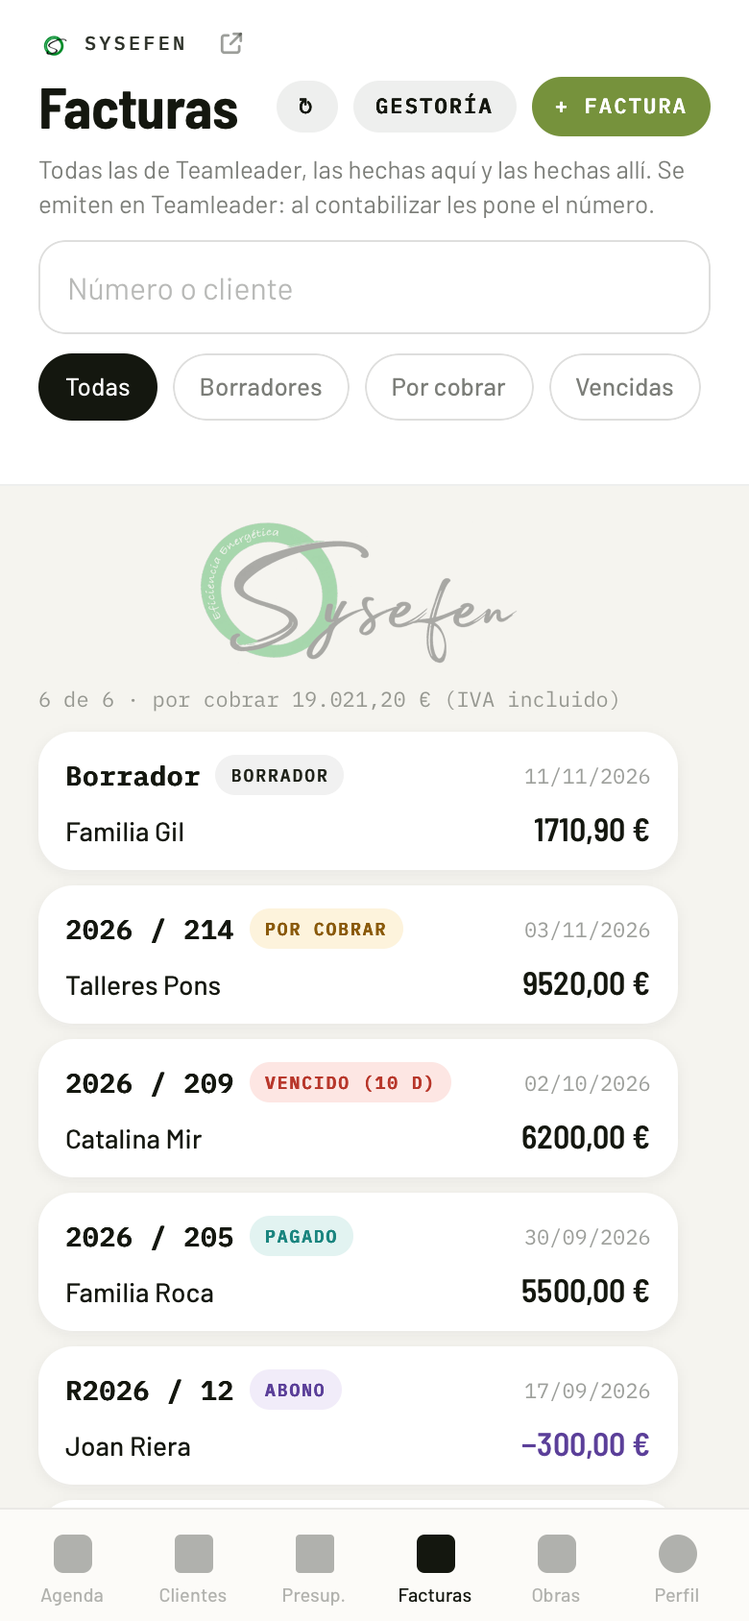
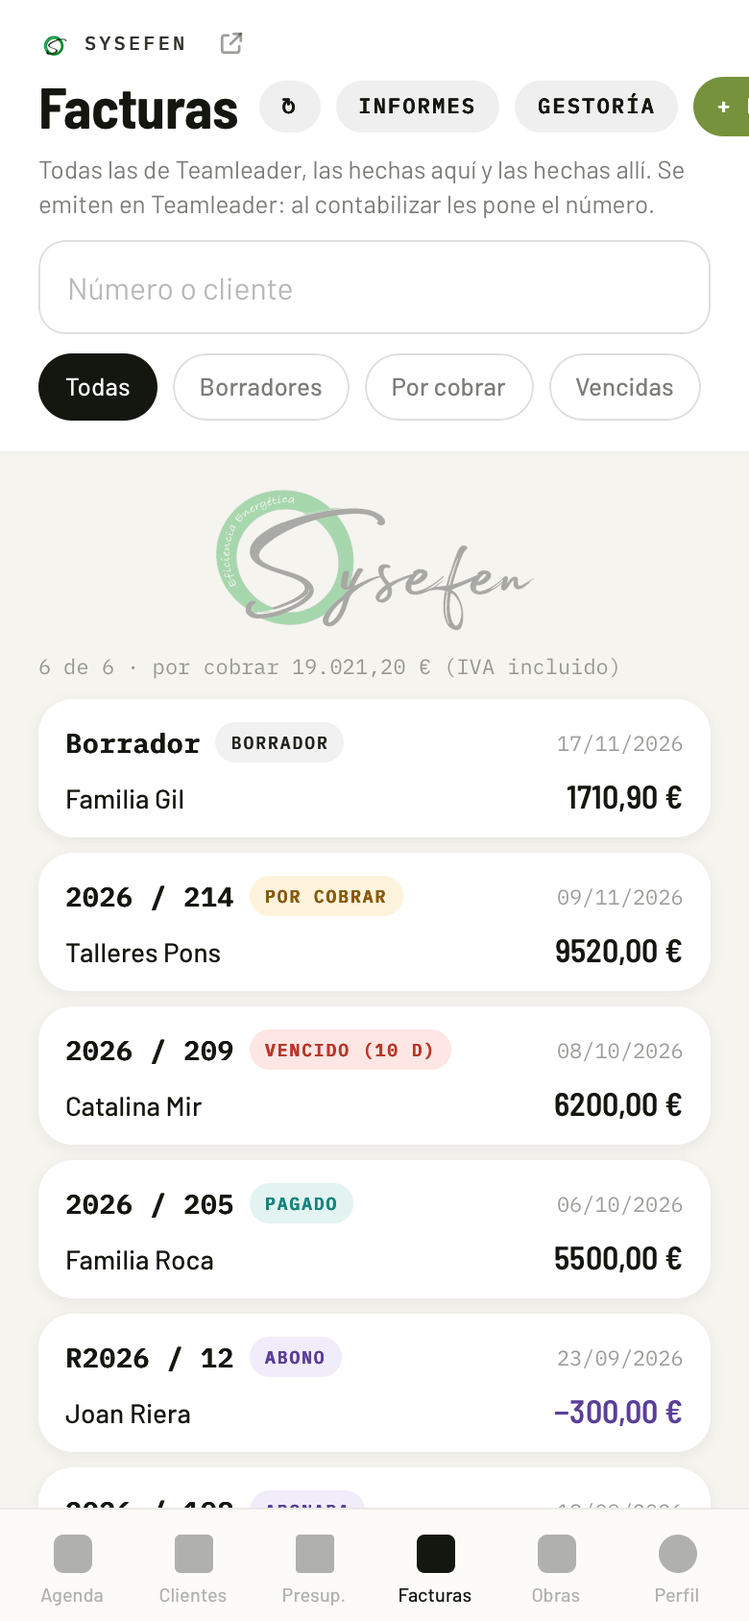
V32.6 (Enzo, 17-11-2026): informes de lo facturado por meses. «En Teamleader tengo una sección de informes donde se pueden ver las gráficas y tablas de los ingresos por meses.» Vista nueva «Informes», desde la lista de facturas (presupuestos y Administración). Sale del espejo de facturas que la app 

diff --git a/index.html b/index.html
@@ -515,7 +515,7 @@ import * as idiomas from './presu-idiomas.js';
 window.Sysefen = { supabase, auth: sysAuth, db: sysDB };
 
 const KEY = 'ch_v1';
-const APP_VERSION = '32.5'; // versión visible de la app (única fuente)
+const APP_VERSION = '32.6'; // versión visible de la app (única fuente)
 const $ = (s) => document.querySelector(s);
 const esc = (v) => String(v == null ? '' : v).replace(/[&<>"']/g, (c) => ({ '&': '&amp;', '<': '&lt;', '>': '&gt;', '"': '&quot;', "'": '&#39;' }[c]));
 const uid = () => Date.now().toString(36) + Math.random().toString(36).slice(2, 7);
@@ -4495,7 +4495,7 @@ function render() {
   // Legalizaciones apagadas: quien llegue a esas vistas (un enlace viejo) vuelve a su sitio.
   if (!LEGALIZACIONES && ['legalizaciones', 'legalizacion'].includes(V.view)) V.view = esPresupuestos() ? 'agenda' : 'ajustes';
   // Ramón entra directo a sus visitas: ninguna pantalla de fichar, obras ni partes.
-  if (V.user && esPresupuestos() && !VISITA_VISTAS.includes(V.view) && !(!esColaborador() && ['legalizaciones', 'legalizacion', 'obras', 'obra', 'alta', 'costesPersonal', 'precios', 'facturas', 'planificacion'].includes(V.view))) {
+  if (V.user && esPresupuestos() && !VISITA_VISTAS.includes(V.view) && !(!esColaborador() && ['legalizaciones', 'legalizacion', 'obras', 'obra', 'alta', 'costesPersonal', 'precios', 'facturas', 'informes', 'planificacion'].includes(V.view))) {
     V.view = 'agenda';
     if (!V.agenda.cargado) A.cargarAgenda();
   }
@@ -4526,6 +4526,7 @@ function render() {
   else if (v === 'costesPersonal' && veCostes()) html = vCostesPersonal();
   else if (v === 'precios' && puedePrecios()) html = vPrecios();
   else if (v === 'facturas' && puedeFacturar()) html = vFacturas();
+  else if (v === 'informes' && puedeFacturar()) html = vInformes();
   else if (v === 'fasesPlantillas' && esAdmin()) html = vFasesPlantillas();
   else if (v === 'planificacion' && planifica()) html = vPlanificacion();
   else if (v === 'legalizacion' && verLegalizaciones()) html = vLegalizacion();
@@ -4545,6 +4546,7 @@ function render() {
   else if (v === 'citaNueva' && puedeCitar()) html = vCitaNueva();
   else if (v === 'citaVer' && verAgenda()) html = vCitaVer();
   if (V.user && ['hoy', 'obras', 'obra', 'partes', 'horas', 'imputar', 'empleados', 'ajustes', 'presupuestos', 'presupuestoVer', 'visitas', 'visita', 'agenda', 'clientes', 'clienteVer', 'revisarImp', 'errores', 'legalizaciones', 'legalizacion', 'costesPersonal', 'precios', 'facturas', 'planificacion', 'fasesPlantillas'].includes(v)) html += nav(v);
+  else if (V.user && v === 'informes') html += nav('facturas');
   if (!navigator.onLine && V.user) html = '<div class="offline">Sin conexión — todo se guarda en el móvil</div>' + html;
   // Red de seguridad: si un sheet revienta al pintarse (p. ej. depende de
   // datos que cambiaron justo antes, como el usuario tras salir), que se
@@ -9143,6 +9145,7 @@ function vFacturas() {
       <div class="h1">Facturas</div>
       <div class="row g8">
         <button class="pill" data-a="fac_sync" style="padding:8px 12px;background:var(--l1);color:var(--tinta)" ${F.sync && F.sync.busy ? 'disabled' : ''} title="Traer de Teamleader las facturas nuevas o cambiadas">${F.sync && F.sync.busy ? '…' : '↻'}</button>
+        <button class="pill" data-a="fac_inf" style="padding:8px 12px;background:var(--l1);color:var(--tinta)" title="Lo facturado por meses y por años, con gráficas">Informes</button>
         <button class="pill" data-a="fac_gestoria" style="padding:8px 12px;background:var(--l1);color:var(--tinta)" title="Listado en Excel y los PDF de un mes o un trimestre, para la gestoría">Gestoría</button>
         <button class="pill" data-a="fac_nueva" style="background:#76923c;color:#fff">+ Factura</button>
       </div>
@@ -9158,7 +9161,182 @@ async function facCargarLista() {
   F.cargando = true;
   try { F.lista = await visitasDB.listarFacturas(); F.error = null; } catch (e) { F.error = msgError(e); }
   F.cargando = false;
-  if (V.view === 'facturas') render();
+  if (V.view === 'facturas' || V.view === 'informes') render();
+}
+
+/* ---------- Informes: lo facturado por meses (V32.6, 17-11-2026) ----------
+ * Enzo: «en Teamleader tengo una sección de informes donde se pueden ver las
+ * gráficas y tablas de los ingresos por meses». Sale del espejo de facturas
+ * (tabla facturas), sin pedir nada más a Teamleader.
+ * Qué cuenta: las facturas emitidas (un borrador no), por su fecha de factura;
+ * los abonos restan. Es lo FACTURADO, no lo cobrado: lo que falta por cobrar
+ * va aparte. Por defecto sin IVA.
+ * ------------------------------------------------------------------------- */
+const INF_MESES = ['Ene', 'Feb', 'Mar', 'Abr', 'May', 'Jun', 'Jul', 'Ago', 'Sep', 'Oct', 'Nov', 'Dic'];
+const INF_MESES_LARGO = ['Enero', 'Febrero', 'Marzo', 'Abril', 'Mayo', 'Junio', 'Julio', 'Agosto', 'Septiembre', 'Octubre', 'Noviembre', 'Diciembre'];
+// Año elegido y año anterior: pareja comprobada para daltonismo sobre blanco.
+const INF_COLOR = { este: '#206028', antes: '#4f7fc4' };
+function infEstado() { if (!V.inf) V.inf = { anio: null, entidad: '', medida: 'base', mes: null }; return V.inf; }
+const infEntidadDe = (f) => f.entidad_tl_id || f.entidad || '';
+/** Las que cuentan: con fecha y emitidas; de una empresa o de todas. */
+function infFilas(lista, entidad) {
+  return (lista || []).filter((f) => f.fecha && f.estado !== 'borrador' && (!entidad || infEntidadDe(f) === entidad));
+}
+/** Lo que suma una fila en la medida pedida (base, iva o total): el abono resta. */
+function infValor(f, medida) {
+  const v = Number(f[medida || 'base']) || 0;
+  return f.tipo === 'abono' ? -Math.abs(v) : v;
+}
+/** Los doce meses de un año. `hasta` (AAAA-MM-DD) corta el año para comparar el mismo tramo. */
+function infPorMes(filas, anio, medida, hasta) {
+  const m = INF_MESES.map(() => ({ valor: 0, facturas: 0, abonos: 0 }));
+  filas.forEach((f) => {
+    const fe = String(f.fecha);
+    if (fe.slice(0, 4) !== String(anio) || (hasta && fe.slice(0, 10) > hasta)) return;
+    const x = m[Number(fe.slice(5, 7)) - 1]; if (!x) return;
+    if (f.tipo === 'abono') x.abonos++; else x.facturas++;
+    x.valor = fac2(x.valor + infValor(f, medida));
+  });
+  return m;
+}
+const infSuma = (meses) => fac2(meses.reduce((t, x) => t + x.valor, 0));
+const infAnios = (filas) => [...new Set(filas.map((f) => Number(String(f.fecha).slice(0, 4))))].filter(Boolean).sort((a, b) => b - a);
+/** Diferencia en tanto por ciento, o null si no hay con qué comparar. */
+const infDif = (a, b) => (b ? Math.round(((a - b) / Math.abs(b)) * 1000) / 10 : null);
+const infDifTxt = (d) => (d == null ? '—' : (d > 0 ? '+' : '') + String(d).replace('.', ',') + ' %');
+/** Importe corto para ejes y rótulos: 77.391 €, 1,51 M €. */
+const eur0 = (n) => Math.round(Number(n) || 0).toLocaleString('es-ES') + ' €';
+const infCorto = (n) => { const a = Math.abs(n); return a >= 1e6 ? (n / 1e6).toLocaleString('es-ES', { maximumFractionDigits: 2 }) + ' M' : a >= 10000 ? (n / 1000).toLocaleString('es-ES', { maximumFractionDigits: 1 }) + ' k' : Math.round(n).toLocaleString('es-ES'); };
+/** Tope del eje: cuatro saltos iguales de un paso redondo, los justos para cubrir el máximo. */
+function infTope(max) {
+  if (!(max > 0)) return 1000;
+  const crudo = max / 4, p = Math.pow(10, Math.floor(Math.log10(crudo)));
+  const paso = [1, 1.5, 2, 2.5, 3, 4, 5, 7.5, 10].map((k) => k * p).find((t) => t >= crudo - 1e-9) || 10 * p;
+  return paso * 4;
+}
+/** Todo lo que pinta la pantalla, calculado de una vez (y lo que comprueban las pruebas). */
+function infDatos(lista, anio, entidad, medida, hoy) {
+  const filas = infFilas(lista, entidad);
+  const anios = infAnios(filas);
+  const hoyISO_ = hoy || hoyISO();
+  const A = anio && anios.includes(Number(anio)) ? Number(anio) : (anios[0] || Number(hoyISO_.slice(0, 4)));
+  const enCurso = String(A) === hoyISO_.slice(0, 4);
+  const este = infPorMes(filas, A, medida), antes = infPorMes(filas, A - 1, medida);
+  // Para comparar un año en curso, del anterior solo cuenta hasta el mismo día.
+  const antesTramo = enCurso ? infPorMes(filas, A - 1, medida, (A - 1) + hoyISO_.slice(4)) : antes;
+  const total = infSuma(este), totalAntes = infSuma(antes), totalAntesTramo = infSuma(antesTramo);
+  const mesesContados = enCurso ? Number(hoyISO_.slice(5, 7)) : 12;
+  let mejor = -1; este.forEach((x, i) => { if (x.valor > 0 && (mejor < 0 || x.valor > este[mejor].valor)) mejor = i; });
+  // Por cobrar: facturas emitidas sin pagar, de cualquier año. Siempre con IVA: es lo que se cobra.
+  const sinCobrar = filas.filter((f) => f.tipo === 'factura' && !(f.estado === 'pagada' || f.pagada));
+  const pend = (f) => (f.pendiente != null ? Number(f.pendiente) : Number(f.total)) || 0;
+  const porCobrar = fac2(sinCobrar.reduce((t, f) => t + pend(f), 0));
+  const vencidas = sinCobrar.filter((f) => f.vence && f.vence < hoyISO_);
+  // Los clientes del año, de más a menos.
+  const cli = {};
+  filas.forEach((f) => { if (String(f.fecha).slice(0, 4) !== String(A)) return; const k = f.cliente_nombre || 'Sin nombre'; cli[k] = fac2((cli[k] || 0) + infValor(f, medida)); });
+  const clientes = Object.keys(cli).map((k) => ({ nombre: k, valor: cli[k] })).filter((x) => x.valor > 0).sort((a, b) => b.valor - a.valor);
+  const porAnio = anios.slice().sort((a, b) => a - b).map((y) => ({ anio: y, valor: infSuma(infPorMes(filas, y, medida)) }));
+  return { anio: A, anios, enCurso, este, antes, total, totalAntes, totalAntesTramo, dif: infDif(total, totalAntesTramo), mesesContados,
+    media: fac2(total / (mesesContados || 1)), mejor, porCobrar, nSinCobrar: sinCobrar.length,
+    vencido: fac2(vencidas.reduce((t, f) => t + pend(f), 0)), nVencidas: vencidas.length, clientes, porAnio,
+    nFacturas: este.reduce((t, x) => t + x.facturas, 0), nAbonos: este.reduce((t, x) => t + x.abonos, 0) };
+}
+/** Columnas agrupadas: el año elegido y el anterior, mes a mes. Se toca un mes para leerlo. */
+function infGraficaHTML(D, mesSel) {
+  // En el móvil, un lienzo más pequeño: así la letra del eje no encoge con la gráfica.
+  const movil = (typeof innerWidth === 'number' ? innerWidth : 400) < 640;
+  const W = movil ? 380 : 720, H = movil ? 250 : 300, izq = movil ? 40 : 50, der = movil ? 2 : 8, arr = 12, aba = 28, letra = movil ? 11 : 12;
+  const ancho = W - izq - der, alto = H - arr - aba, paso = ancho / 12;
+  const tope = infTope(Math.max(1, ...D.este.map((x) => x.valor), ...D.antes.map((x) => x.valor)));
+  const y = (v) => arr + alto - (Math.max(0, v) / tope) * alto;
+  const bw = movil ? 9 : 14, hueco = 2;
+  // Columna con la punta redondeada y la base recta.
+  const col = (x, v, color) => { const h = arr + alto - y(v); if (h < 0.5) return ''; const r = Math.min(4, h, bw / 2); const yy = y(v);
+    return `<path d="M${x},${arr + alto}V${yy + r}Q${x},${yy} ${x + r},${yy}H${x + bw - r}Q${x + bw},${yy} ${x + bw},${yy + r}V${arr + alto}Z" fill="${color}"/>`; };
+  const marcas = [0, 0.25, 0.5, 0.75, 1].map((k) => k * tope);
+  return `<svg viewBox="0 0 ${W} ${H}" role="img" aria-label="Facturado por meses en ${D.anio}, comparado con ${D.anio - 1}" style="display:block;width:100%;height:auto;font-family:var(--mono)">
+    ${marcas.map((v) => `<line x1="${izq}" x2="${W - der}" y1="${y(v)}" y2="${y(v)}" stroke="rgba(20,23,15,.08)" stroke-width="1"/><text x="${izq - 7}" y="${y(v) + 4}" text-anchor="end" font-size="${letra}" fill="rgba(20,23,15,.5)">${infCorto(v)}</text>`).join('')}
+    ${D.este.map((x, i) => { const cx = izq + paso * i + paso / 2; const sel = mesSel === i;
+      return `<g data-a="fac_infMes" data-m="${i}" style="cursor:pointer"><title>${INF_MESES_LARGO[i]} · ${D.anio}: ${eur0(x.valor)} · ${D.anio - 1}: ${eur0(D.antes[i].valor)}</title>
+        <rect x="${izq + paso * i}" y="${arr}" width="${paso}" height="${alto + aba}" fill="${sel ? 'rgba(20,23,15,.05)' : 'transparent'}"/>
+        ${col(cx - bw - hueco / 2, D.antes[i].valor, INF_COLOR.antes)}${col(cx + hueco / 2, x.valor, INF_COLOR.este)}
+        <text x="${cx}" y="${H - 9}" text-anchor="middle" font-size="${letra}" font-weight="${sel ? 700 : 400}" fill="${sel ? '#14170f' : 'rgba(20,23,15,.56)'}">${INF_MESES[i]}</text></g>`; }).join('')}
+    <line x1="${izq}" x2="${W - der}" y1="${arr + alto}" y2="${arr + alto}" stroke="rgba(20,23,15,.3)" stroke-width="1"/>
+  </svg>`;
+}
+const infLeyenda = (D) => `<div class="row" style="gap:16px;flex-wrap:wrap"><span class="row g8" style="align-items:center"><i style="width:12px;height:12px;border-radius:3px;background:${INF_COLOR.este}"></i><span class="tiny" style="color:var(--tinta)">${D.anio}</span></span><span class="row g8" style="align-items:center"><i style="width:12px;height:12px;border-radius:3px;background:${INF_COLOR.antes}"></i><span class="tiny" style="color:var(--tinta)">${D.anio - 1}</span></span></div>`;
+/** Barras tumbadas con el importe en la punta (por años, por cliente). */
+function infBarrasHTML(filas, accion) {
+  const max = Math.max(1, ...filas.map((x) => x.valor));
+  return filas.map((x) => `<div ${accion ? `data-a="${accion}" data-y="${esc(String(x.clave))}" style="cursor:pointer;` : 'style="'}padding:7px 0">
+    <div class="row" style="justify-content:space-between;align-items:baseline;gap:10px"><span class="ell" style="font:${x.on ? 600 : 500} 13.5px/1.2 var(--sans);min-width:0">${esc(x.nombre)}</span><span class="num" style="font-size:14px;white-space:nowrap">${eur0(x.valor)}</span></div>
+    <div style="height:8px;margin-top:5px;border-radius:0 4px 4px 0;background:${INF_COLOR.este};opacity:${x.on === false ? 0.45 : 1};width:${Math.max(0.5, (Math.max(0, x.valor) / max) * 100).toFixed(1)}%"></div>
+  </div>`).join('');
+}
+function vInformes() {
+  const F = facEstadoBase(), I = infEstado();
+  const cab = (dentro) => `<div class="hdr">
+    <div class="volver" data-a="fac_abrir">‹ Facturas</div>
+    <div class="h1" style="margin-top:6px">Informes</div>
+    ${dentro}
+  </div>`;
+  if (!F.lista) return cab(`<div class="sub" style="margin-top:8px">${F.error ? 'No se pudieron leer las facturas: ' + esc(F.error) : 'Cargando las facturas…'}</div>`) + '<div class="scroll pad pb-nav"></div>';
+  // Las empresas que han facturado, la que más primero.
+  const emp = {}; (F.lista || []).forEach((f) => { const k = infEntidadDe(f); if (!k) return; (emp[k] = emp[k] || { k, nombre: f.entidad || k, n: 0 }).n++; });
+  const empresas = Object.values(emp).sort((a, b) => b.n - a.n);
+  if (I.entidad && !emp[I.entidad]) I.entidad = '';
+  const D = infDatos(F.lista, I.anio, I.entidad, I.medida);
+  I.anio = D.anio;
+  const conIva = I.medida === 'total';
+  const m = I.mes != null && D.este[I.mes] ? I.mes : null;
+  const corto = (t) => (String(t).length > 24 ? String(t).slice(0, 23) + '…' : String(t));
+  const tile = (rotulo, valor, pie, color) => `<div class="card" style="flex:1 1 150px;min-width:0;padding:13px 15px"><div class="lbl">${rotulo}</div><div class="num" style="font-size:24px;line-height:1.1;margin-top:7px;white-space:nowrap">${valor}</div><div class="tiny" style="margin-top:5px${color ? ';color:' + color : ''}">${pie}</div></div>`;
+  const hayAntes = D.anios.includes(D.anio - 1);
+  const lectura = m == null
+    ? `<span class="tiny">Toca un mes para ver sus números.</span>`
+    : `<span style="font:600 14px/1.3 var(--sans)">${INF_MESES_LARGO[m]}</span> <span class="tiny">· ${D.anio}: <b style="color:var(--tinta)">${eur(D.este[m].valor)}</b> (${D.este[m].facturas} ${D.este[m].facturas === 1 ? 'factura' : 'facturas'}${D.este[m].abonos ? ', ' + D.este[m].abonos + (D.este[m].abonos === 1 ? ' abono' : ' abonos') : ''}) · ${D.anio - 1}: <b style="color:var(--tinta)">${eur(D.antes[m].valor)}</b> · ${infDifTxt(infDif(D.este[m].valor, D.antes[m].valor))}</span>`;
+  let acum = 0, acumAntes = 0;
+  return cab(`<div class="sub" style="margin-top:8px">Lo facturado, por la fecha de la factura. Los abonos restan y los borradores no cuentan. No es lo cobrado: eso va en «Por cobrar».</div>
+    <div class="row g8" style="margin-top:10px;overflow-x:auto;padding-bottom:2px">${D.anios.map((y) => `<span class="chip${y === D.anio ? ' on' : ''}" data-a="fac_infAnio" data-y="${y}" style="flex:none">${y}</span>`).join('')}</div>
+    <div class="row g8" style="margin-top:8px;overflow-x:auto;padding-bottom:2px">
+      ${empresas.length > 1 ? `<span class="chip${!I.entidad ? ' on' : ''}" data-a="fac_infEntidad" data-k="" style="flex:none">Todas las empresas</span>${empresas.map((e) => `<span class="chip${I.entidad === e.k ? ' on' : ''}" data-a="fac_infEntidad" data-k="${esc(e.k)}" style="flex:none" title="${esc(e.nombre)}">${esc(corto(e.nombre))}</span>`).join('')}` : ''}
+      <span class="chip${!conIva ? ' on' : ''}" data-a="fac_infMedida" data-k="base" style="flex:none">Sin IVA</span><span class="chip${conIva ? ' on' : ''}" data-a="fac_infMedida" data-k="total" style="flex:none">Con IVA</span>
+    </div>`) + `
+  <div class="scroll pad sin-marca pb-nav"><div style="max-width:860px;margin:0 auto">
+    <div class="row" style="gap:10px;flex-wrap:wrap;align-items:stretch">
+      ${tile('Facturado en ' + D.anio, eur0(D.total), (conIva ? 'Con IVA' : 'Sin IVA') + ' · ' + D.nFacturas + (D.nFacturas === 1 ? ' factura' : ' facturas') + (D.nAbonos ? ' y ' + D.nAbonos + (D.nAbonos === 1 ? ' abono' : ' abonos') : ''))}
+      ${tile(D.enCurso ? 'Frente a ' + (D.anio - 1) + ', mismas fechas' : 'Frente a ' + (D.anio - 1), hayAntes ? infDifTxt(D.dif) : '—', hayAntes ? (D.enCurso ? 'A estas fechas llevaba ' : 'Fue ') + eur0(D.totalAntesTramo) : 'No hay facturas de ' + (D.anio - 1))}
+      ${tile('Media por mes', eur0(D.media), D.mejor >= 0 ? 'El mejor, ' + INF_MESES_LARGO[D.mejor].toLowerCase() + ': ' + eur0(D.este[D.mejor].valor) : 'Sin facturas este año')}
+      ${tile('Por cobrar ahora', eur0(D.porCobrar), D.nSinCobrar ? D.nSinCobrar + (D.nSinCobrar === 1 ? ' factura' : ' facturas') + ', con IVA' + (D.nVencidas ? ' · ' + eur0(D.vencido) + ' ya vencido' : '') : 'Todo cobrado', D.nVencidas ? '#b8372b' : '')}
+    </div>
+    <div class="card" style="margin-top:12px;padding:14px 12px 12px">
+      <div class="row" style="justify-content:space-between;align-items:baseline;gap:10px;flex-wrap:wrap;padding:0 4px 8px"><div class="lbl">Facturado por meses · ${conIva ? 'con IVA' : 'sin IVA'}</div>${infLeyenda(D)}</div>
+      ${infGraficaHTML(D, m)}
+      <div style="padding:8px 4px 0;min-height:36px">${lectura}</div>
+    </div>
+    <div class="card" style="margin-top:12px;padding:6px 0 4px;overflow-x:auto">
+      <table style="width:100%;border-collapse:collapse;font:400 13px/1.2 var(--sans)">
+        <thead><tr style="text-align:right;color:var(--t2)"><th style="text-align:left;padding:9px 6px 9px 15px;font:500 11px var(--mono);text-transform:uppercase">Mes</th><th style="padding:9px 6px;font:500 11px var(--mono)">${D.anio}</th><th style="padding:9px 6px;font:500 11px var(--mono)">${D.anio - 1}</th><th style="padding:9px 6px;font:500 11px var(--mono)">DIF.</th><th style="padding:9px 15px 9px 6px;font:500 11px var(--mono)">ACUM. ${D.anio}</th></tr></thead>
+        <tbody>${D.este.map((x, i) => { acum = fac2(acum + x.valor); acumAntes = fac2(acumAntes + D.antes[i].valor);
+          const futuro = D.enCurso && i + 1 > D.mesesContados;
+          return `<tr data-a="fac_infMes" data-m="${i}" style="text-align:right;border-top:1px solid var(--l1);cursor:pointer;${m === i ? 'background:rgba(20,23,15,.04);' : ''}${futuro && !x.valor ? 'color:var(--t3);' : ''}"><td style="text-align:left;padding:9px 6px 9px 15px;font-weight:500">${INF_MESES_LARGO[i]}</td><td class="num" style="padding:9px 6px;white-space:nowrap">${futuro && !x.valor ? '—' : eur0(x.valor)}</td><td class="num" style="padding:9px 6px;white-space:nowrap;color:var(--t2)">${eur0(D.antes[i].valor)}</td><td style="padding:9px 6px;white-space:nowrap;color:var(--t2)">${futuro && !x.valor ? '—' : infDifTxt(infDif(x.valor, D.antes[i].valor))}</td><td class="num" style="padding:9px 15px 9px 6px;white-space:nowrap">${futuro && !x.valor ? '—' : eur0(acum)}</td></tr>`; }).join('')}
+          <tr style="text-align:right;border-top:2px solid var(--l2);font-weight:600"><td style="text-align:left;padding:10px 6px 10px 15px">Total</td><td class="num" style="padding:10px 6px;white-space:nowrap">${eur0(D.total)}</td><td class="num" style="padding:10px 6px;white-space:nowrap;color:var(--t2)">${eur0(D.totalAntes)}</td><td style="padding:10px 6px;white-space:nowrap;color:var(--t2)">${D.enCurso ? '' : infDifTxt(infDif(D.total, D.totalAntes))}</td><td class="num" style="padding:10px 15px 10px 6px;white-space:nowrap">${eur0(D.total)}</td></tr>
+        </tbody>
+      </table>
+      ${D.enCurso && hayAntes ? `<div class="tiny" style="padding:8px 15px 6px">El año no ha terminado: la columna de ${D.anio - 1} es el año entero. La comparación justa, a las mismas fechas, es la de arriba (${infDifTxt(D.dif)}).</div>` : ''}
+    </div>
+    <div class="row" style="gap:12px;flex-wrap:wrap;margin-top:12px;align-items:flex-start">
+      <div class="card" style="flex:1 1 300px;min-width:0;padding:13px 15px">
+        <div class="lbl" style="margin-bottom:4px">Por años · ${conIva ? 'con IVA' : 'sin IVA'}</div>
+        ${infBarrasHTML(D.porAnio.map((x) => ({ clave: x.anio, nombre: String(x.anio) + (String(x.anio) === hoyISO().slice(0, 4) ? ' (en curso)' : ''), valor: x.valor, on: x.anio === D.anio })), 'fac_infAnio')}
+      </div>
+      <div class="card" style="flex:1 1 300px;min-width:0;padding:13px 15px">
+        <div class="lbl" style="margin-bottom:4px">A quién se facturó más en ${D.anio}</div>
+        ${D.clientes.length ? infBarrasHTML(D.clientes.slice(0, 8).map((x) => ({ nombre: x.nombre, valor: x.valor }))) + (D.clientes.length > 8 ? `<div class="tiny" style="margin-top:6px">Y ${D.clientes.length - 8} clientes más, que suman ${eur0(D.clientes.slice(8).reduce((t, x) => t + x.valor, 0))}.</div>` : '') : '<div class="sub" style="margin-top:6px">Sin facturas este año.</div>'}
+      </div>
+    </div>
+  </div></div>`;
 }
 /** Lo ya facturado de un presupuesto: facturas con número menos sus abonos (sin IVA). */
 function facFacturado(facturas) {
@@ -9553,6 +9731,11 @@ A.fac = async (a, d) => {
   const F = facEstadoBase();
   if (a === 'fac_abrir') { V.view = 'facturas'; render(); return facCargarLista(); }
   if (a === 'fac_filtro') { F.filtro = d.k; render(); return; }
+  if (a === 'fac_inf') { V.view = 'informes'; scrollMemo.informes = 0; render(); if (!F.lista && !F.cargando) return facCargarLista(); return; }
+  if (a === 'fac_infAnio') { const I = infEstado(); I.anio = Number(d.y); I.mes = null; return render(); }
+  if (a === 'fac_infEntidad') { const I = infEstado(); I.entidad = d.k || ''; I.mes = null; return render(); }
+  if (a === 'fac_infMedida') { infEstado().medida = d.k === 'total' ? 'total' : 'base'; return render(); }
+  if (a === 'fac_infMes') { const I = infEstado(); const i = Number(d.m); I.mes = I.mes === i ? null : i; return render(); }
   if (a === 'fac_sync') {
     if (F.sync && F.sync.busy) return;
     F.sync = { busy: true, txt: 'Trayendo de Teamleader…' }; render();

diff --git a/pruebas/informes.js b/pruebas/informes.js
@@ -1,0 +1,73 @@
+/* Informes de lo facturado por meses (V32.6, Enzo, 17-11-2026: «en Teamleader
+ * tengo una sección de informes donde se pueden ver las gráficas y tablas de los
+ * ingresos por meses»). Qué cuenta, cómo se compara un año en curso y qué se pinta. */
+var F = function (o) { return Object.assign({ tipo: 'factura', estado: 'pagada', pagada: true, entidad: 'Sysefen', entidad_tl_id: 'e1', cliente_nombre: 'Ana', iva: 0, pendiente: 0 }, o); };
+var LISTA = [
+  F({ id: '1', fecha: '2026-01-10', base: 1000, total: 1210 }),
+  F({ id: '2', fecha: '2026-01-20', base: 500, total: 605, cliente_nombre: 'Berta' }),
+  F({ id: '3', fecha: '2026-03-05', base: 3000, total: 3630, estado: 'pendiente', pagada: false, pendiente: 3630, vence: '2026-04-05' }),
+  F({ id: '4', tipo: 'abono', estado: 'emitido', fecha: '2026-03-20', base: 200, total: 242 }),
+  F({ id: '5', fecha: '2026-11-02', base: 800, total: 968, estado: 'pendiente', pagada: false, pendiente: 968, vence: '2026-12-02', entidad: 'Otra SL', entidad_tl_id: 'e2', cliente_nombre: 'Carla' }),
+  F({ id: '6', fecha: '2026-11-15', base: 9999, total: 9999, estado: 'borrador', pagada: false }),
+  F({ id: '7', fecha: '2025-01-15', base: 400, total: 484 }),
+  F({ id: '8', fecha: '2025-06-01', base: 2000, total: 2420 }),
+  F({ id: '9', fecha: '2025-12-20', base: 5000, total: 6050 }),
+];
+titulo('qué cuenta');
+var D = infDatos(LISTA, 2026, '', 'base', '2026-11-17');
+igual('enero suma sus dos facturas', D.este[0].valor, 1500);
+igual('el abono resta en su mes', D.este[2].valor, 2800);
+igual('y se cuenta aparte', D.este[2].facturas + '/' + D.este[2].abonos, '1/1');
+igual('el borrador no cuenta', D.este[10].valor, 800);
+igual('total del año', D.total, 5100);
+igual('facturas y abonos del año', D.nFacturas + '/' + D.nAbonos, '4/1');
+igual('con IVA, la otra medida', infDatos(LISTA, 2026, '', 'total', '2026-11-17').total, 1210 + 605 + 3630 - 242 + 968);
+igual('años con facturas, el más nuevo primero', D.anios.join(','), '2026,2025');
+igual('sin decir año, el último', infDatos(LISTA, null, '', 'base', '2026-11-17').anio, 2026);
+
+titulo('comparar con el año anterior');
+igual('el año anterior entero', D.totalAntes, 7400);
+igual('pero en un año en curso se compara a las mismas fechas (sin diciembre)', D.totalAntesTramo, 2400);
+igual('la diferencia sale de ese tramo', D.dif, 112.5);
+igual('y se escribe con su signo', infDifTxt(D.dif), '+112,5 %');
+var D25 = infDatos(LISTA, 2025, '', 'base', '2026-11-17');
+igual('un año cerrado se compara entero; sin año anterior no hay diferencia', D25.dif, null);
+igual('y lo dice con una raya', infDifTxt(D25.dif), '—');
+igual('media por mes de un año en curso: sobre los meses que lleva', D.media, fac2(5100 / 11));
+igual('y de un año cerrado, sobre doce', D25.media, fac2(7400 / 12));
+igual('el mejor mes', D.mejor, 2);
+
+titulo('por cobrar, empresas y clientes');
+igual('lo emitido sin pagar, con IVA', D.porCobrar, 4598);
+igual('de eso, lo vencido', D.vencido + ' en ' + D.nVencidas, '3630 en 1');
+var D2 = infDatos(LISTA, 2026, 'e2', 'base', '2026-11-17');
+igual('una sola empresa', D2.total + '|' + D2.porCobrar, '800|968');
+igual('los clientes del año, de más a menos', D.clientes.map(function (x) { return x.nombre + ':' + x.valor; }).join(' '), 'Ana:3800 Carla:800 Berta:500');
+igual('por años, en orden', D.porAnio.map(function (x) { return x.anio + ':' + x.valor; }).join(' '), '2025:7400 2026:5100');
+
+titulo('el eje y los importes');
+igual('tope del eje: cuatro saltos redondos que cubren el máximo', [infTope(0), infTope(950), infTope(1000), infTope(12000), infTope(54095), infTope(106152), infTope(260000)].join(','), '1000,1000,1000,12000,60000,120000,300000');
+comprueba('importes cortos', /^0\|9\.?500\|22,5 k\|50 k\|1,51 M$/.test([infCorto(0), infCorto(9500), infCorto(22500), infCorto(50000), infCorto(1510000)].join('|')));
+
+titulo('la pantalla');
+S.users = [{ id: 'u0', nombre: 'Fabrizio', rol: 'presupuestos', activo: true }]; V.user = { id: 'u0' }; V.agenda.cargado = true;
+V.fac = { lista: LISTA, cargando: false, error: null, buscar: '', filtro: 'todas', sync: null }; V.inf = null;
+comprueba('Facturas tiene la entrada a Informes', vFacturas().indexOf('data-a="fac_inf"') > -1);
+A.fac('fac_inf', {});
+igual('se abre la vista', V.view, 'informes');
+var h = vInformes();
+comprueba('con sus cuatro indicadores', h.indexOf('Facturado en 2026') > -1 && h.indexOf('mismas fechas') > -1 && h.indexOf('Media por mes') > -1 && h.indexOf('Por cobrar ahora') > -1);
+comprueba('la gráfica, con su leyenda de dos años', h.indexOf('<svg') > -1 && h.indexOf(INF_COLOR.este) > -1 && h.indexOf(INF_COLOR.antes) > -1);
+comprueba('y la tabla con los doce meses y el total', (h.match(/<tr data-a="fac_infMes"/g) || []).length === 12 && h.indexOf('>Total<') > -1);
+comprueba('las dos empresas para elegir', h.indexOf('Todas las empresas') > -1 && h.indexOf('data-k="e2"') > -1);
+A.fac('fac_infMes', { m: '2' });
+comprueba('al tocar un mes se leen sus números', vInformes().indexOf('Marzo') > -1 && /2\.?800,00/.test(vInformes()) && vInformes().indexOf('1 abono') > -1);
+A.fac('fac_infAnio', { y: '2025' });
+comprueba('se cambia de año', V.inf.anio === 2025 && vInformes().indexOf('Facturado en 2025') > -1);
+A.fac('fac_infMedida', { k: 'total' });
+comprueba('y a con IVA', vInformes().indexOf('con IVA') > -1 && /8\.?954/.test(vInformes()));
+S.users[0].rol = 'jefe';
+A.fac('fac_infAnio', { y: '2026' });
+igual('quien no ve facturas no toca nada', V.inf.anio, 2025);
+V.user = null; V.view = 'login'; V.inf = null; V.fac = null;
+resultado();

diff --git a/manual/index.html b/manual/index.html
@@ -717,6 +717,25 @@ footer{margin-top:60px;padding-top:20px;border-top:1px solid var(--l1);color:var
     <p><span class="btn gris">Gestoría</span>, en la lista: eliges la empresa y un <b>trimestre</b>, un <b>mes</b> o <b>todo el año</b>. Sale el resumen (facturas, abonos, base, IVA y total) y <span class="btn verde">Descargar el ZIP</span> baja el listado de facturas emitidas en Excel y el PDF de cada factura y cada abono del periodo. Los abonos restan.</p>
   </div>
 </div>
+<div class="pantalla">
+  <img src="img/pres-informes.png" alt="Informes de lo facturado">
+  <div class="txt">
+    <h4>Informes: lo facturado por meses</h4>
+    <p><span class="btn gris">Informes</span>, en la lista de facturas. Sale de las facturas que la app ya tiene copiadas de Teamleader: si falta alguna reciente, primero <b>↻</b> en la lista.</p>
+    <ul>
+      <li><b>Qué cuenta</b>: las facturas emitidas, por su fecha de factura. Los abonos restan y los borradores no cuentan. Es lo <b>facturado</b>, no lo cobrado.</li>
+      <li>Arriba eliges el <b>año</b>, la <b>empresa</b> (o todas) y si lo quieres <b>sin IVA</b> o <b>con IVA</b>.</li>
+      <li>Cuatro números: lo <b>facturado en el año</b>; la diferencia <b>frente al año anterior</b> (si el año está en curso, contra las mismas fechas del anterior, no contra el año entero); la <b>media por mes</b> con el mejor mes; y lo que hay <b>por cobrar ahora</b>, con IVA, diciendo cuánto está ya vencido.</li>
+      <li>La <b>gráfica</b>: cada mes, la columna verde del año elegido junto a la azul del anterior. Toca un mes y debajo salen sus importes, cuántas facturas y abonos tuvo y la diferencia.</li>
+      <li>La <b>tabla</b>, con los mismos números mes a mes, la diferencia y el acumulado del año.</li>
+      <li>Abajo, el total de <b>cada año</b> (toca uno para verlo) y <b>a quién se facturó más</b> en el año.</li>
+    </ul>
+  </div>
+</div>
+<div class="dos">
+  <figure><img src="img/pres-informes-2.png" alt="Tabla de lo facturado por meses"><figcaption><b>La tabla.</b> El mes tocado en la gráfica queda marcado también aquí.</figcaption></figure>
+  <figure><img src="img/pres-informes-ancho.png" alt="Informes en el ordenador"><figcaption><b>En el ordenador.</b> Lo mismo, a lo ancho.</figcaption></figure>
+</div>
 
 <h3 id="pres-precios">Precios</h3>
 <div class="pantalla">
@@ -915,7 +934,7 @@ footer{margin-top:60px;padding-top:20px;border-top:1px solid var(--l1);color:var
   <tr><td>Un cliente no está en la hoja de clientes</td><td>En su ficha, <b>Apuntarlo en la hoja</b>. Los que se crean desde la app van solos.</td></tr>
 </table>
 
-<footer>Manual de la app Sysefen · al día con la versión 32.5 (17-11-2026) · las pantallas son de ejemplo, con datos inventados · se regenera con <code>herramientas/manual/capturar.py</code></footer>
+<footer>Manual de la app Sysefen · al día con la versión 32.6 (17-11-2026) · las pantallas son de ejemplo, con datos inventados · se regenera con <code>herramientas/manual/capturar.py</code></footer>
 </main>
 </div>
 </body>

diff --git a/herramientas/manual/escenas.js b/herramientas/manual/escenas.js
@@ -302,6 +302,15 @@
       V.sheet = { tipo: 'presuEnviar', id: 'q2', ids: ['q2'], otros: [], v: { para: 'familia.gil@correo.es', cc: '', asunto: '', mensaje: 'Hola Marta: te mando el presupuesto del aire del salón y el dormitorio, como hablamos. Cualquier duda, me llamas.', idioma: 'es' }, confirmar: false, busy: false, paso: '', trad: null }; },
     'pres-presu-aceptado': () => { base('u5'); V.view = 'presupuestoVer'; V.presuVer = { id: 'q2', cargando: false, datos: PRESU_ACEPTADO, error: null, facturas: [FACTURAS[0]] }; window.__scrollTxt = '✓ Aceptado y firmado'; },
     'pres-facturas': () => { base('u5'); V.view = 'facturas'; },
+    // Informes: dos años de facturas inventadas (siempre las mismas), para que la gráfica tenga qué enseñar.
+    'pres-informes': () => { base('u5'); const anio = Number(hoy.slice(0, 4)), mesHoy = Number(hoy.slice(5, 7)); let sem = 7; const azar = () => (sem = (sem * 1103515245 + 12345) % 2147483648) / 2147483648;
+      const nombres = ['Talleres Pons', 'Familia Roca', 'Catalina Mir', 'Joan Riera', 'Marina Coll', 'Hotel Es Port', 'Familia Gil', 'Pep Vidal', 'Finca Son Bru']; const lista = [];
+      [anio - 1, anio].forEach((y) => { for (let mm = 1; mm <= (y === anio ? mesHoy : 12); mm++) { const n = 3 + Math.floor(azar() * 5);
+        for (let k = 0; k < n; k++) { const b = Math.round((600 + azar() * (y === anio ? 11000 : 8000)) * 100) / 100; const pagada = y < anio || mm < mesHoy - 1 || azar() > 0.5; const f = y + '-' + String(mm).padStart(2, '0') + '-' + String(2 + k * 3).padStart(2, '0');
+          lista.push({ id: 'i' + y + mm + k, tipo: 'factura', numero: y + ' / ' + (lista.length + 1), estado: pagada ? 'pagada' : 'pendiente', pagada, fecha: f, vence: f, cliente_nombre: nombres[Math.floor(azar() * nombres.length)], entidad: 'Sysefen Group 2024 SL', entidad_tl_id: 'e1', base: b, iva: Math.round(b * 21) / 100, total: Math.round(b * 121) / 100, pendiente: pagada ? 0 : Math.round(b * 121) / 100 }); } } });
+      V.fac.lista = lista; V.inf = { anio, entidad: '', medida: 'base', mes: Math.max(0, mesHoy - 2) }; V.view = 'informes'; },
+    'pres-informes-2': () => { ESCENAS['pres-informes'](); window.__scrollTxt = 'Octubre'; },
+    'pres-informes-ancho': () => { ESCENAS['pres-informes'](); },   // la misma, a lo ancho (ordenador)
     'pres-factura': () => { base('u5'); V.view = 'facturas'; const f = V.fac.lista.find((x) => x.id === 'fa5'); V.sheet = { tipo: 'facVer', id: f.id, f, busy: false, confirmar: '', v: { fecha: hoy, importe: '', concepto: '' }, abonadas: {} }; },
     'pres-facturar': () => { base('u5'); V.view = 'presupuestoVer'; V.presuVer = { id: 'q2', cargando: false, datos: PRESU_ACEPTADO, error: null, facturas: [] };
       V.sheet = { tipo: 'facNueva', presupuestoId: 'q2', cargando: false, op: FAC_OPCIONES, err: null, busy: false,

diff --git a/sw.js b/sw.js
@@ -1,4 +1,4 @@
-const CACHE = 'ch-v32-5';
+const CACHE = 'ch-v32-6';
 const ASSETS = ['./', './index.html', './manifest.webmanifest', './supabase-client.js', './supabase-auth.js', './supabase-db.js', './visitas-schemas.js', './visitas-form.js', './visitas-db.js', './presu-idiomas.js', './icon-192.png?v=2', './icon-512.png?v=2', './icon-maskable.png?v=2', './logo-trans.png?v=3', './logo-blanco.png?v=3', './logo-s-blanco.png?v=2', './fondo-login.jpg'];
 
 // Al instalarse una versión nueva NO se activa sola: se queda esperando y la

diff --git a/herramientas/manual/capturar.py b/herramientas/manual/capturar.py
@@ -26,7 +26,7 @@ IMG = os.path.join(RAIZ, 'manual', 'img')
 PUERTO = 8766
 ANCHO, ALTO, ESCALA = 390, 844, 2
 # Escenas que se fotografían a otro tamaño (ancho, alto, escala): las de ordenador.
-TAMANOS = {'pres-tablero': (1280, 700, 1.5), 'pres-tablero-2': (1280, 700, 1.5)}
+TAMANOS = {'pres-tablero': (1280, 700, 1.5), 'pres-tablero-2': (1280, 700, 1.5), 'pres-informes-ancho': (1180, 1000, 1.5)}
 
 SNAP = r'''
 import WebKit
